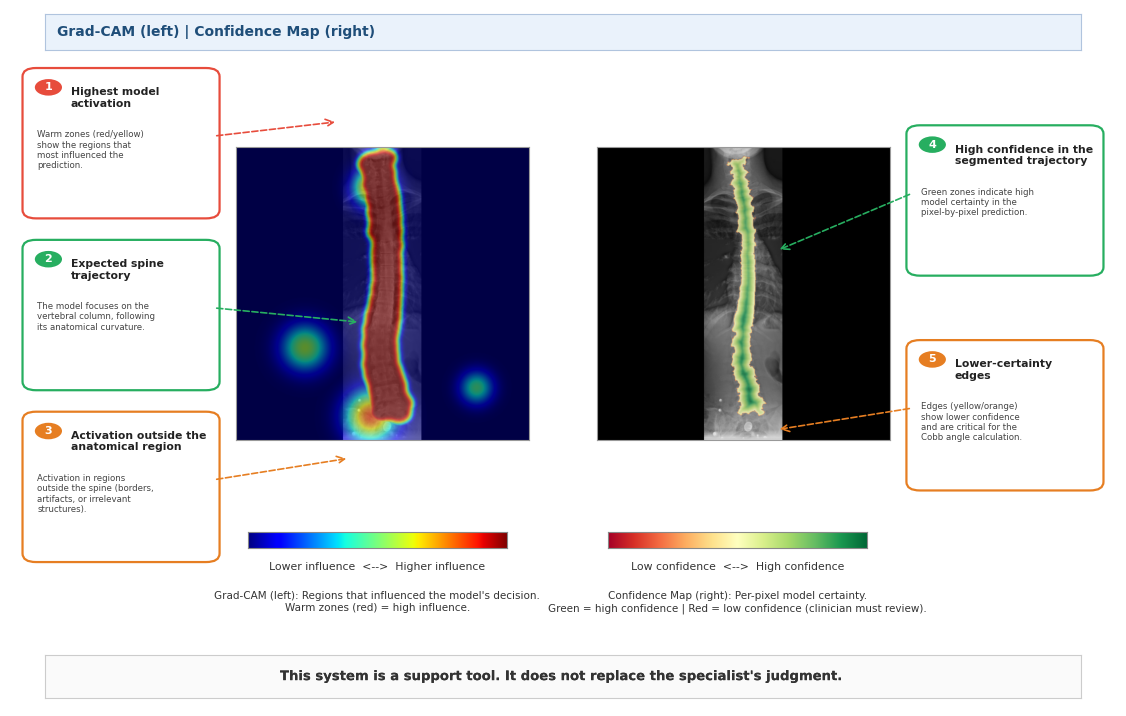
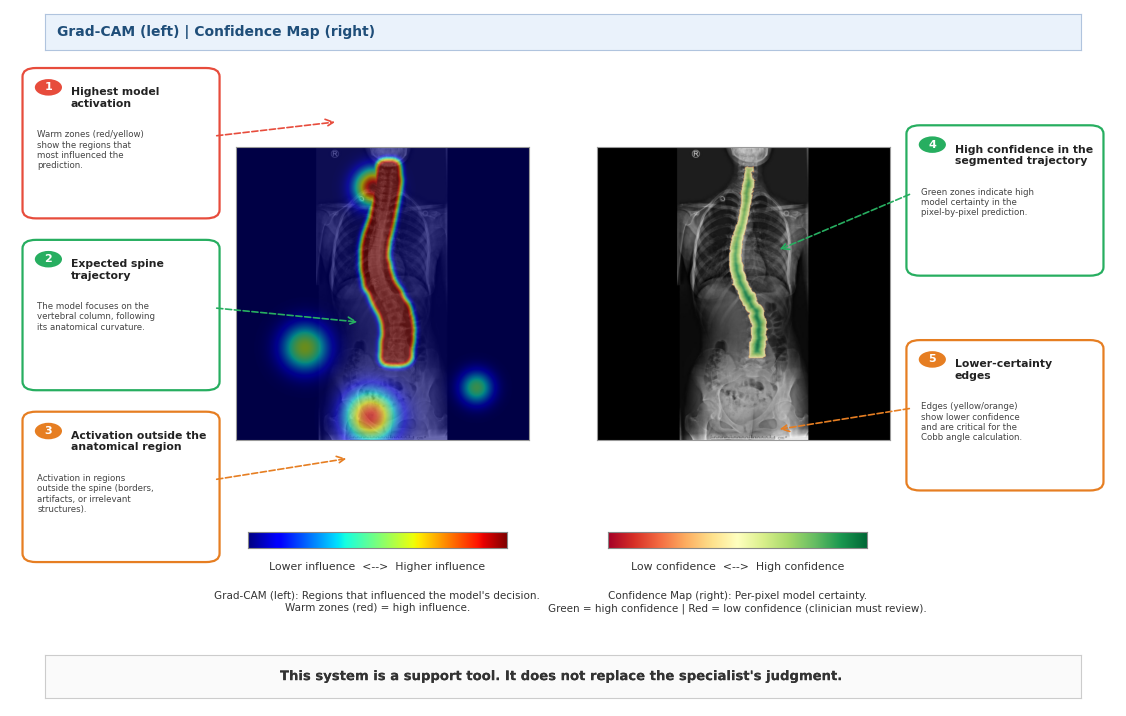
feat(assets): regenerate explainability reference with severe S-shape sample
Switch the reference image base from S_22.jpg (Cobb 24.9 deg, mild —
chosen as a generic sample in Ciclo 5.9) to S_200.jpg (clearly visible
scoliotic S-curve, more pedagogically representative).

Decision driver: our medical collaborator did not recognize the Ciclo
5.9 reference as a case from our dataset because S_22 is a fairly
straight thoracic case; the educational value of an explainability
legend is highest when the example shows a textbook S-curve. Elvis
picked S_200 after reviewing candidates.

Changes:
- scripts/generate_explain_reference.py: bump --sample-xray and
  --sample-mask defaults to S_200 / Label_S_200, with a comment noting
  the Ciclo 5.10 transition.
- assets/explainability_reference_es.png: regenerated (~187 KB).
- assets/explainability_reference_en.png: regenerated (~183 KB).

Layout unchanged — same 5 numbered callouts, same colorbars, same
disclaimer footer. Only the underlying X-ray + simulated overlays differ.

Changed region(s): [[0.5906, 0.1844, 0.746, 0.6145], [0.2798, 0.1844, 0.4041, 0.6145]]

diff --git a/scripts/generate_explain_reference.py b/scripts/generate_explain_reference.py
@@ -413,14 +413,16 @@ def main() -> int:
     parser.add_argument(
         "--sample-xray",
         type=Path,
-        default=Path("MaIA_Scoliosis_Dataset/Scoliosis/S_22.jpg"),
-        help="Path to the X-ray image used as backdrop (default: S_22.jpg).",
+        default=Path("MaIA_Scoliosis_Dataset/Scoliosis/S_200.jpg"),
+        help="Path to the X-ray image used as backdrop (default: S_200.jpg, "
+             "chosen for Ciclo 5.10 — clearly visible S-shape suitable as "
+             "an educational reference. Previously was S_22.jpg in Ciclo 5.9).",
     )
     parser.add_argument(
         "--sample-mask",
         type=Path,
-        default=Path("MaIA_Scoliosis_Dataset/LabelBinaryJPG/Label_S_22.jpg"),
-        help="Path to the matching binary spine mask (default: Label_S_22.jpg).",
+        default=Path("MaIA_Scoliosis_Dataset/LabelBinaryJPG/Label_S_200.jpg"),
+        help="Path to the matching binary spine mask (default: Label_S_200.jpg).",
     )
     parser.add_argument(
         "--out-dir",